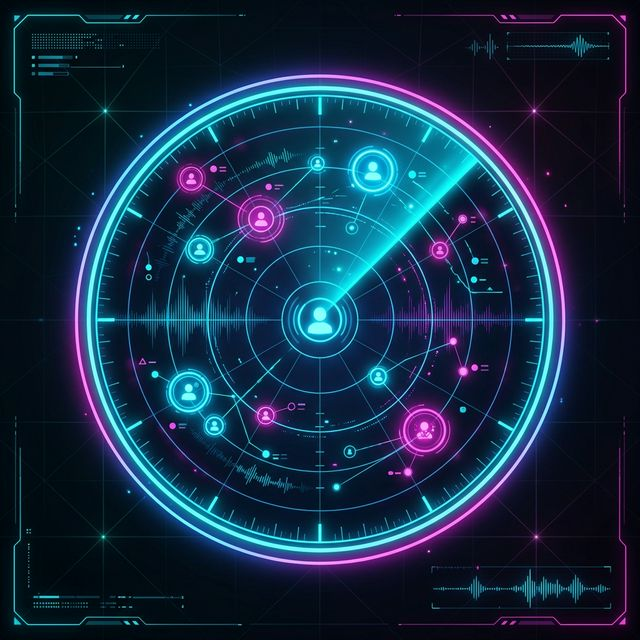
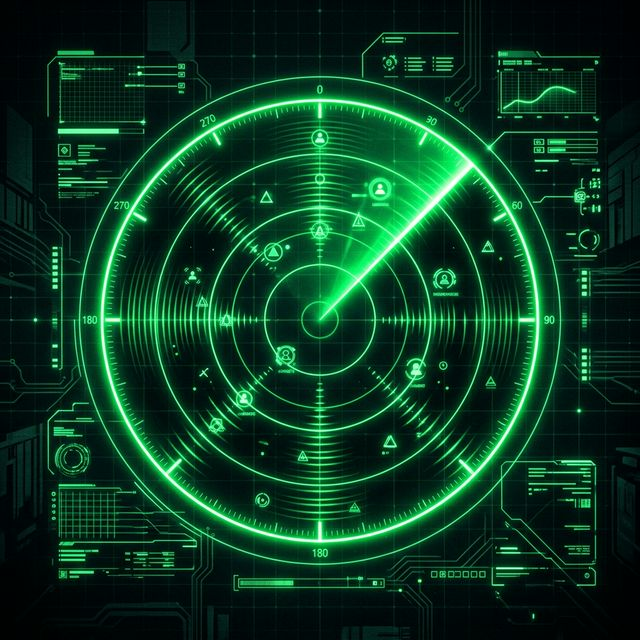
Revamp branding: Update open graph image to green aesthetic and refresh README

diff --git a/README.md b/README.md
@@ -2,8 +2,11 @@
 
 A futuristic, real-time proximity-based chat application set in a neon-drenched secure zone. **Neon Radar** allows you to discover local "frequency" rooms, connect with other nearby nodes, and engage in ephemeral, secure transmissions.
 
-![Neon Radar Interface](https://via.placeholder.com/1200x600?text=Neon+Radar+Interface+Preview)
+![Neon Radar Interface](/public/og-image.png)
 
+### 🌍 Live Deployment
+- **Frontend (Vercel)**: [https://neon-radar.vercel.app/](https://neon-radar.vercel.app/)
+- **Backend (Railway)**: [https://neon-radar-production.up.railway.app/](https://neon-radar-production.up.railway.app/)
 ## 📡 Live Radar Tracking
 
 The core of the experience is the **Proximity Radar**, which scans a 100m secure zone around your location.
